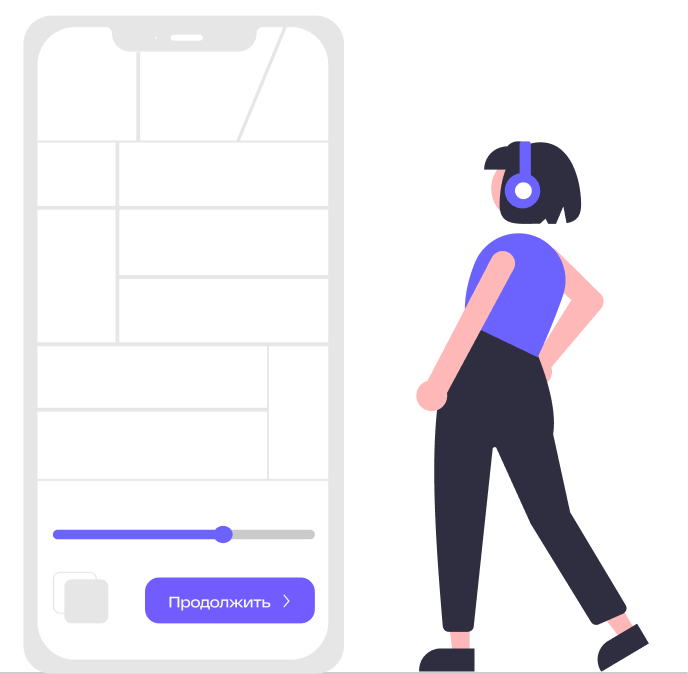
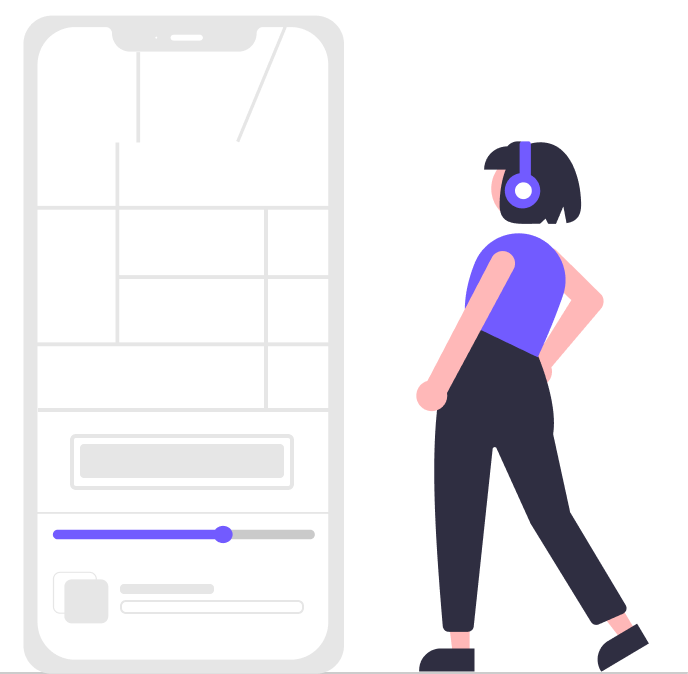
onboarding change titles and image

Changed region(s): [[0.0916, 0.3116, 0.4884, 0.7478], [0.1831, 0.8412, 0.4578, 0.9347]]

diff --git a/lib/src/features/onboarding_performance/models/onboard_performance.dart b/lib/src/features/onboarding_performance/models/onboard_performance.dart
@@ -28,15 +28,16 @@ class OnboardPerformance {
       subtitle:
           'Чтобы уменьшить внешний шум и погрузиться в настроение спектакля',
       subtitleAccent: '',
-      buttonTitle: "Далее",
+      buttonTitle: 'Далее',
       image: ImagesSources.onboardHeadPhones,
     ),
     OnboardPerformance(
-      title: 'Переключайте трек при достижении новой локации',
-      subtitle: 'Чтобы переключить трек, нажмите кнопку ',
-      buttonTitle: "Начать спектакль",
+      title: 'Треки переключаются автоматически',
+      subtitle:
+          'Чтобы переключить трек, дойдите до контрольной точки и дослушайте главу ',
+      buttonTitle: 'Начать спектакль',
       image: ImagesSources.onboardNext,
-      subtitleAccent: 'Продолжить',
+      subtitleAccent: '',
     ),
   ];
 
@@ -46,15 +47,15 @@ class OnboardPerformance {
       subtitle:
           'Чтобы уменьшить внешний шум и погрузиться в настроение спектакля',
       subtitleAccent: '',
-      buttonTitle: "Далее",
+      buttonTitle: 'Далее',
       image: ImagesSources.onboardHeadPhones,
     ),
     OnboardPerformance(
-      title: 'Переключайте трек при достижении новой локации',
-      subtitle: 'Чтобы переключить трек, нажмите кнопку ',
-      buttonTitle: "Начать спектакль",
+      title: 'Треки переключаются автоматически',
+      subtitle: 'Весь спектакль будет воспроизводиться без пауз',
+      buttonTitle: 'Начать спектакль',
       image: ImagesSources.onboardNext,
-      subtitleAccent: 'Продолжить',
+      subtitleAccent: '',
     ),
   ];
 }

diff --git a/lib/src/app.dart b/lib/src/app.dart
@@ -50,7 +50,7 @@ class App extends StatelessWidget {
         debugShowCheckedModeBanner: false,
         title: "Shebalin",
         theme: defaultTheme(),
-        initialRoute: '/performance-mode-screen',
+        initialRoute: '/onboarding-performance',
         routes: {
           '/loading-screen': (context) => const LoadingScreen(),
           '/onbording-screen': (context) => const OnbordingScreen(),
@@ -64,7 +64,7 @@ class App extends StatelessWidget {
           '/onboarding-performance': (context) => const OnboardWelcome(),
           '/onboarding-rules': (context) => const OnboardingPerformance(),
           '/review-page': (context) => const ReviewPage(),
-          '/performance-mode-screen': (context) => PerformanceModePage(),
+          '/performance-mode-screen': (context) => const PerformanceModePage(),
         },
       ),
     );
